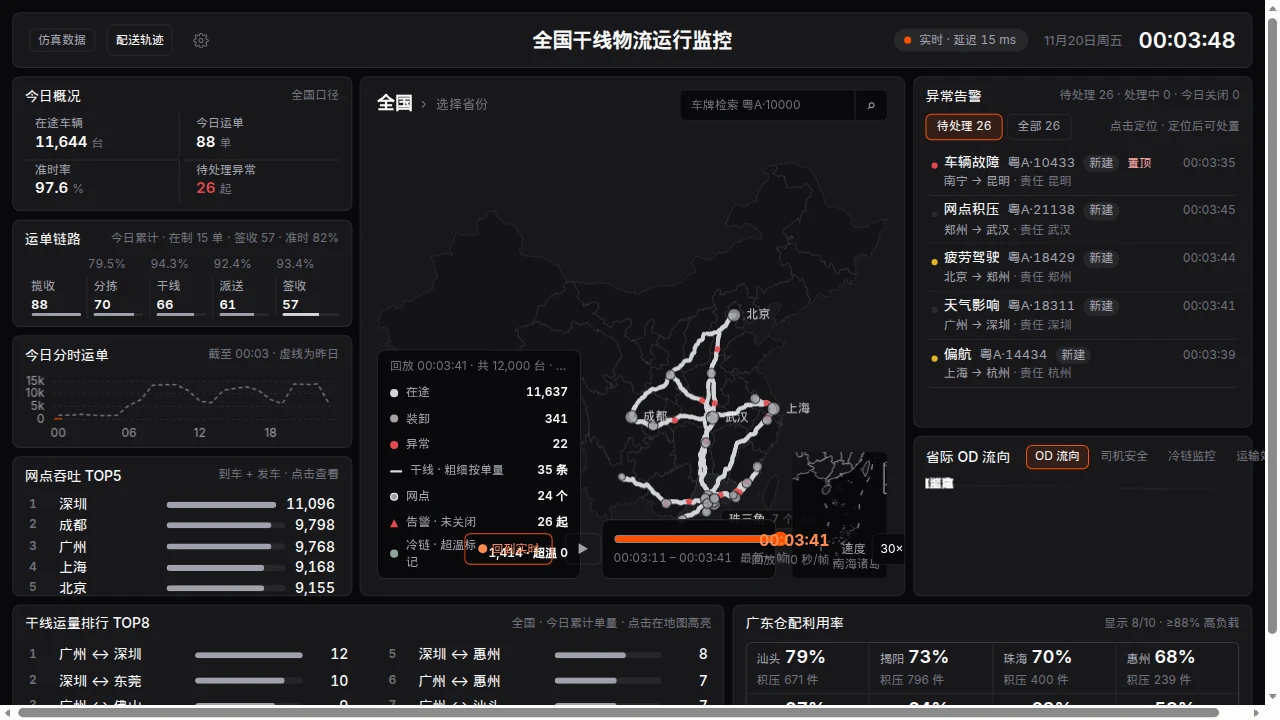
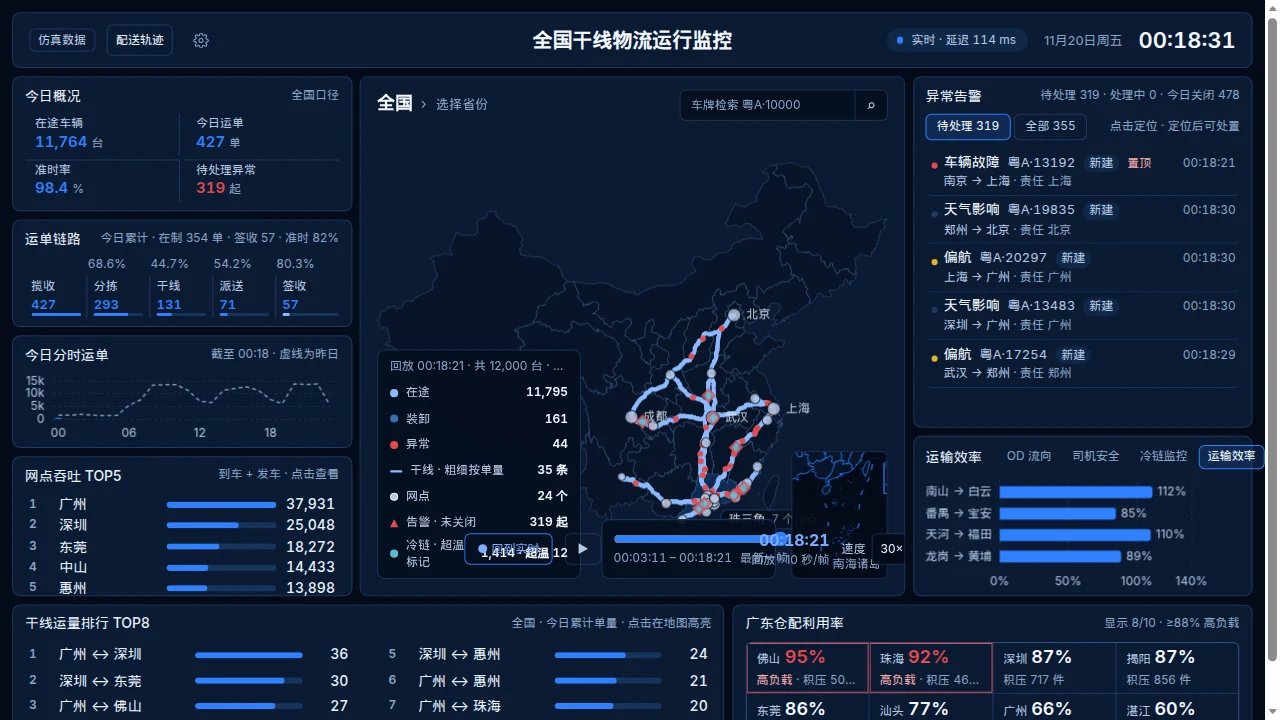
ui: 大屏恢复蓝色风格
海军蓝底和单一强调蓝 #2F80FF 用于焦点、主系列和关键数字。告警仍用红和琥珀，冷链保持偏青。不恢复顶栏光晕、涟漪和干线粒子。

diff --git a/client/src/design/tokens.ts b/client/src/design/tokens.ts
@@ -1,22 +1,22 @@
 /** DOM 与 Canvas 共用的设计变量；在应用挂载前安装对应 CSS 自定义属性。 */
-// 精密深色：中性锌灰分层，单一强调色（国际橙）只用于焦点、主操作和当前锚点。
-// 红 / 琥珀只用于真实告警与需要关注的状态，不拿来做装饰。
+// 深蓝身份色：海军蓝底、单一蓝强调色用于焦点、主系列和关键数字。
+// 红 / 琥珀 / 绿只用于真实告警与恢复，不拿来做装饰。
 export const COLORS = {
-  canvas: '#09090B', panel: '#18181B', header: '#18181B', elevated: '#27272A',
-  track: '#27272A', border: 'rgba(255, 255, 255, 0.08)', hover: 'rgba(255, 255, 255, 0.05)',
-  selected: 'rgba(255, 79, 0, 0.12)',
-  text: '#FAFAFA', heading: '#FAFAFA', secondary: '#A1A1AA', tertiary: '#71717A',
-  accent: '#FF4F00', accentText: '#FF8A4C', accentValue: '#FFC2A1', onAccent: '#18181B',
+  canvas: '#050B18', panel: '#0A1A33', header: '#0A1A33', elevated: '#102848',
+  track: '#16345C', border: 'rgba(120, 168, 255, 0.22)', hover: 'rgba(47, 128, 255, 0.10)',
+  selected: 'rgba(47, 128, 255, 0.16)',
+  text: '#E8F1FC', heading: '#F4F8FF', secondary: '#B7C9E2', tertiary: '#8AA4C4',
+  accent: '#2F80FF', accentText: '#7AABFF', accentValue: '#C5DBFF', onAccent: '#F7FBFF',
   success: '#6FBF90', warning: '#E6B325', danger: '#E5484D', dangerText: '#F5A8A4',
-  // 数据色阶：同一中性明度阶梯，不另开色相
-  barWeak: '#3F3F46', bar: '#71717A', barStrong: '#A1A1AA', barLight: '#D4D4D8',
-  vehicle: '#D4D4D8', dwell: '#A8A29E', muted: '#52525B', route: '#5C5C66',
-  cold: '#8FA39A',
-  infoBg: '#27272A', warningBg: '#3A3014', dangerBg: '#3F1D1D',
-  mapArea: '#141416', mapBorder: 'rgba(255, 255, 255, 0.12)', mapProvince: '#1F1F23', mapHover: '#2A2A2E',
-  overlay: 'rgba(9, 9, 11, 0.94)', hud: 'rgba(9, 9, 11, 0.92)',
-  legend: 'rgba(9, 9, 11, 0.92)', accentArea: 'rgba(255, 79, 0, 0.12)',
-  gridLine: 'rgba(255, 255, 255, 0.08)',
+  // 图表色阶：同一蓝色相，按明度区分
+  barWeak: '#14345C', bar: '#1E5BB8', barStrong: '#2F80FF', barLight: '#8EBAFF',
+  vehicle: '#8EBAFF', dwell: '#3D6FA8', muted: '#1E4E8C', route: '#245A96',
+  cold: '#5EB8C9',
+  infoBg: '#102848', warningBg: '#3A3014', dangerBg: '#3F1D1D',
+  mapArea: '#071428', mapBorder: 'rgba(126, 176, 240, 0.32)', mapProvince: '#0E2C56', mapHover: '#143866',
+  overlay: 'rgba(5, 11, 24, 0.94)', hud: 'rgba(5, 14, 32, 0.92)',
+  legend: 'rgba(5, 14, 32, 0.92)', accentArea: 'rgba(47, 128, 255, 0.16)',
+  gridLine: 'rgba(120, 168, 255, 0.14)',
 } as const
 
 export const FONT = {

diff --git a/client/src/components/MapChart.vue b/client/src/components/MapChart.vue
@@ -496,7 +496,7 @@ function baseOption() {
         data: [] as [number, number, number][],
       },
       {
-        // 选中的干线：橙色加粗压在分级线路之上
+        // 选中的干线：蓝色加粗压在分级线路之上
         id: 'route-focus', type: 'lines', coordinateSystem: 'geo', zlevel: 5,
         polyline: true, silent: true, lineStyle: { color: ACCENT, width: 4, opacity: 1 },
         data: routeFocusData(),
@@ -565,7 +565,7 @@ function baseOption() {
       },
       {
         id: 'hub-hit', type: 'scatter', coordinateSystem: 'geo', zlevel: 4,
-        symbolSize: 44, itemStyle: { color: 'rgba(255, 79, 0, 0.01)' },
+        symbolSize: 44, itemStyle: { color: 'rgba(47, 128, 255, 0.01)' },
         emphasis: { disabled: true }, tooltip: { formatter: hubTooltip },
         data: hitData(),
       },
@@ -588,7 +588,7 @@ function baseOption() {
         tooltip: { formatter: (p: { name: string }) => `事件发生位置 · ${p.name}<br/>（事件发生时的位置，不是实时车辆追踪）` }, data: eventPositionData(),
       },
       {
-        // 追踪车辆所在干线：橙色高亮，其余线路淡出
+        // 追踪车辆所在干线：蓝色高亮，其余线路淡出
         id: 'vehicle-route', type: 'lines', coordinateSystem: 'geo', zlevel: 5,
         polyline: true, silent: true, lineStyle: { color: ACCENT, width: 2.5, opacity: 0.9 },
         data: vehicleRouteData(),

diff --git a/client/src/components/AmapTrackMap.vue b/client/src/components/AmapTrackMap.vue
@@ -166,9 +166,9 @@ function addAdminLabels(namespace: AMapNamespace, target: AMapMap) {
         depth: 2,
         styles: {
           fill: 'rgba(0, 0, 0, 0)',
-          'province-stroke': 'rgba(255, 255, 255, 0.22)',
-          'city-stroke': 'rgba(255, 255, 255, 0.16)',
-          'county-stroke': 'rgba(255, 255, 255, 0.1)',
+          'province-stroke': 'rgba(126, 176, 240, 0.40)',
+          'city-stroke': 'rgba(126, 176, 240, 0.28)',
+          'county-stroke': 'rgba(126, 176, 240, 0.16)',
           'stroke-width': 1,
         },
       }))
@@ -248,7 +248,7 @@ onMounted(() => {
     amap = namespace
     const first = props.points[0]
     // 底色、道路和 POI 标注。楼块和室内图继续关。行政区名和区界另由 DistrictLayer / 行政区查询补上。
-    // 已行驶段是橙色，未行驶段是浅蓝，在官方 darkblue 上对比更清楚。不用 3D、路况或卫星图层。
+    // 已行驶段用强调蓝，未行驶段用浅蓝，在官方 darkblue 上对比更清楚。不用 3D、路况或卫星图层。
     map = new namespace.Map(host.value, {
       viewMode: '2D',
       zoom: 11,

diff --git a/client/src/components/TrendChart.vue b/client/src/components/TrendChart.vue
@@ -27,7 +27,7 @@ function render() {
     tooltip: {
       ...TOOLTIP,
       trigger: 'axis',
-      axisPointer: { type: 'shadow', shadowStyle: { color: 'rgba(255, 255, 255, 0.04)' } },
+      axisPointer: { type: 'shadow', shadowStyle: { color: 'rgba(47, 128, 255, 0.10)' } },
       formatter: (params: unknown) => formatTrendTooltip(params, store.trend, currentHour, store.trendYesterday),
     },
     xAxis: {
@@ -78,7 +78,7 @@ watch([chart, () => store.chartVersion], render)
 
 <template>
   <Panel title="今日分时运单" :extra="`${asOf ? `截至 ${asOf}` : '北京时间'}${store.trendYesterday.length === 24 ? ' · 虚线为昨日' : ''}`">
-    <div ref="el" class="chart" role="img" aria-label="今日各小时运单量柱状图，橙色虚线柱为当前小时累计中，浅色虚线为昨日各小时运单" />
+    <div ref="el" class="chart" role="img" aria-label="今日各小时运单量柱状图，蓝色虚线柱为当前小时累计中，浅色虚线为昨日各小时运单" />
   </Panel>
 </template>
 

diff --git a/client/src/components/VehicleDetail.vue b/client/src/components/VehicleDetail.vue
@@ -47,7 +47,7 @@ function renderTemps() {
       axisLabel: { ...TEXT, fontFamily: FONT.number, formatter: '{value}℃' } },
     series: [{
       type: 'line', data, showSymbol: false, smooth: false,
-      lineStyle: { color: COLORS.cold, width: 1.5 }, areaStyle: { color: areaFade(143, 163, 154) },
+      lineStyle: { color: COLORS.cold, width: 1.5 }, areaStyle: { color: areaFade(94, 184, 201) },
       markArea: { silent: true, itemStyle: { color: 'rgba(52, 199, 123, 0.12)' }, data: [[{ yAxis: t.lo }, { yAxis: t.hi }]] },
       markLine: { silent: true, symbol: 'none', lineStyle: { color: COLORS.secondary, type: 'dashed', width: 1 }, label: { show: false }, data: [{ yAxis: t.target }] },
     }],

diff --git a/client/src/components/TrackSpeedChart.vue b/client/src/components/TrackSpeedChart.vue
@@ -52,11 +52,11 @@ function render() {
       smooth: false,
       showSymbol: false,
       lineStyle: { color: COLORS.barLight, width: 1.5 },
-      areaStyle: { color: areaFade(212, 212, 216) },
+      areaStyle: { color: areaFade(142, 186, 255) },
       data: speedSamples(points).map((sample) => [sample.t, Math.round(sample.speedKmh * 10) / 10]),
       markArea: {
         silent: true,
-        itemStyle: { color: 'rgba(255, 255, 255, 0.06)' },
+        itemStyle: { color: 'rgba(47, 128, 255, 0.10)' },
         label: { show: false },
         data: props.stays.map((stay) => [{ xAxis: stay.startT }, { xAxis: stay.endT }]),
       },

diff --git a/client/src/components/DeliveryBoard.vue b/client/src/components/DeliveryBoard.vue
@@ -180,7 +180,7 @@ onBeforeUnmount(() => {
       </Panel>
     </div>
 
-    <Panel class="eff-panel" standalone title="运输效率" extra="承诺用时 / 实际用时 · 橙色为当前运单">
+    <Panel class="eff-panel" standalone title="运输效率" extra="承诺用时 / 实际用时 · 蓝色为当前运单">
       <WaybillEfficiencyChart />
     </Panel>
   </div>

diff --git a/client/src/components/KpiOverview.vue b/client/src/components/KpiOverview.vue
@@ -52,7 +52,7 @@ dd { display: flex; align-items: baseline; gap: var(--space-1); min-width: 0; ma
   font-size: clamp(20px, 15cqw, var(--font-kpi));
   font-weight: 600;
   line-height: 1.2;
-  color: var(--color-heading);
+  color: var(--color-accent);
   font-variant-numeric: tabular-nums;
   white-space: nowrap;
   overflow: hidden;

diff --git a/client/src/components/ShipmentFunnel.vue b/client/src/components/ShipmentFunnel.vue
@@ -77,7 +77,7 @@ const extra = computed(() => s.value
   font-size: clamp(14px, 24cqw, 20px);
   font-weight: 600;
   line-height: 1.2;
-  color: var(--color-heading);
+  color: var(--color-accent);
   font-variant-numeric: tabular-nums;
   white-space: nowrap;
   overflow: hidden;
